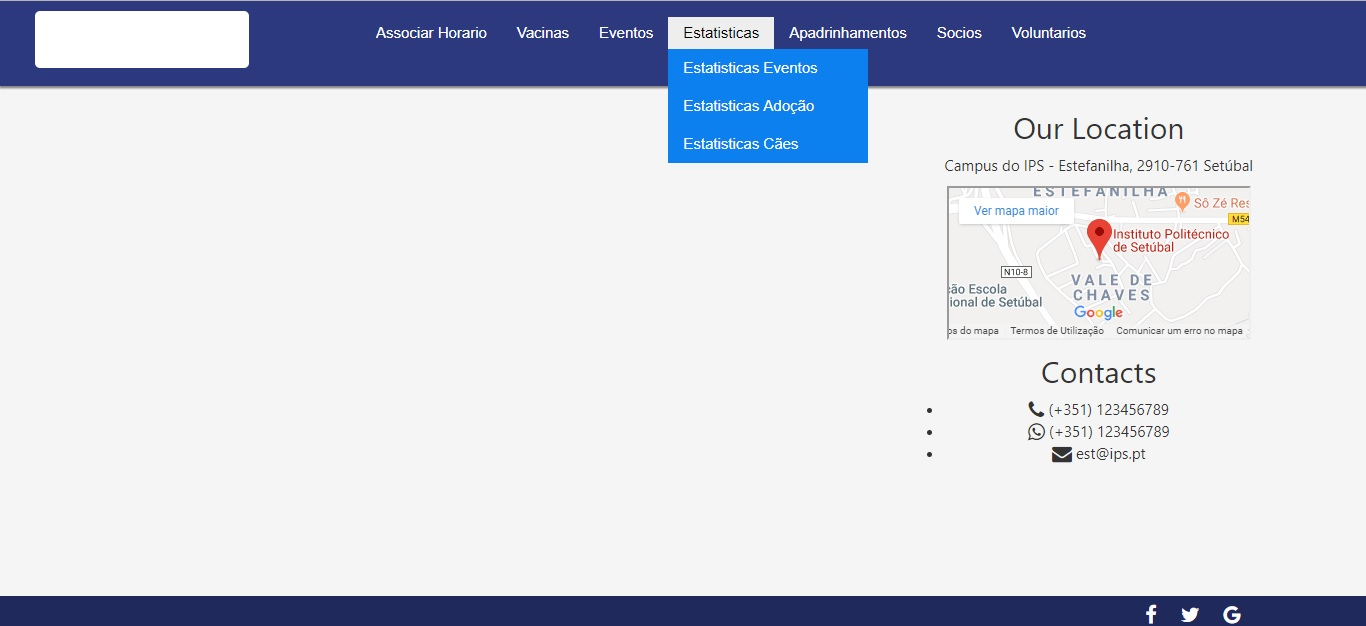
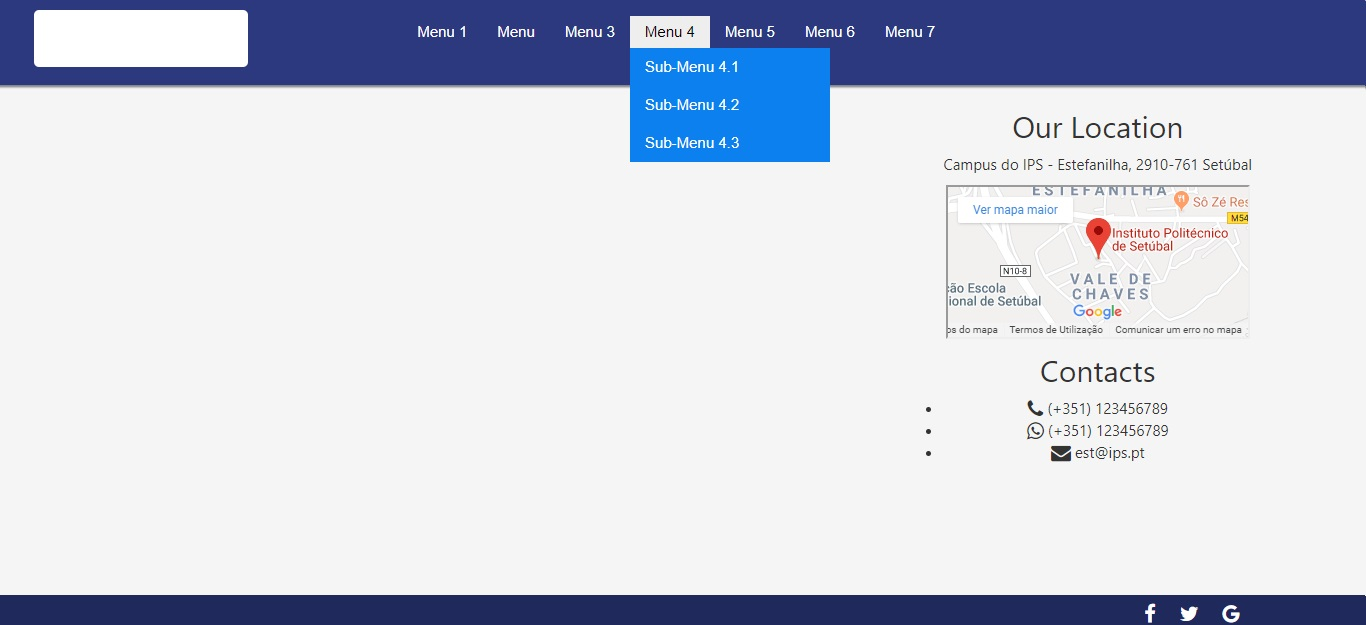
update menu

diff --git a/www/index.html b/www/index.html
@@ -94,23 +94,23 @@
                              </h1>
                     </div>
 
-                    <div class="navbar-collapse collapse" style="float: right; margin-right: 250px;">
+                    <div class="navbar-collapse collapse" style="float: right; margin-right: 400px;">
                         <nav id="primary_nav_wrap" class="navbar">
                         <ul class="nav navbar-nav">
-                            <li><a class="w3-text-white">Associar Horario</a></li>
-                                <li><a>Vacinas</a></li>
-                                <li><a>Eventos</a></li>
+                            <li><a>Menu 1</a></li>
+                                <li><a>Menu </a></li>
+                                <li><a>Menu 3</a></li>
                                 <li>
-                                    <a>Estatisticas</a>
+                                    <a>Menu 4</a>
                                     <ul>
-                                        <li><a>Estatisticas Eventos</a></li>
-                                        <li><a>Estatisticas Adoção</a></li>
-                                        <li><a>Estatisticas Cães</a></li>
+                                        <li><a>Sub-Menu 4.1</a></li>
+                                        <li><a>Sub-Menu 4.2</a></li>
+                                        <li><a>Sub-Menu 4.3</a></li>
                                     </ul>
                                 </li>
-                                <li><a>Apadrinhamentos</a></li>
-                                <li><a>Socios</a></li>
-                                <li><a>Voluntarios</a></li>
+                                <li><a>Menu 5</a></li>
+                                <li><a>Menu 6</a></li>
+                                <li><a>Menu 7</a></li>
                         </ul>
                     </nav>
                     </div>  

diff --git a/app.js b/app.js
@@ -9,7 +9,7 @@ var options = {
         "document": "index.html",
         "port": 8081,
         "favicon": ""
-    },
+    }, 
     "extensions": {
         "txt": "text/plain",
         "htm": "text/html",

diff --git a/README.md b/README.md
@@ -1,2 +1,3 @@
 # Layout-Da-PaginaIII
 layout da pagina
+
